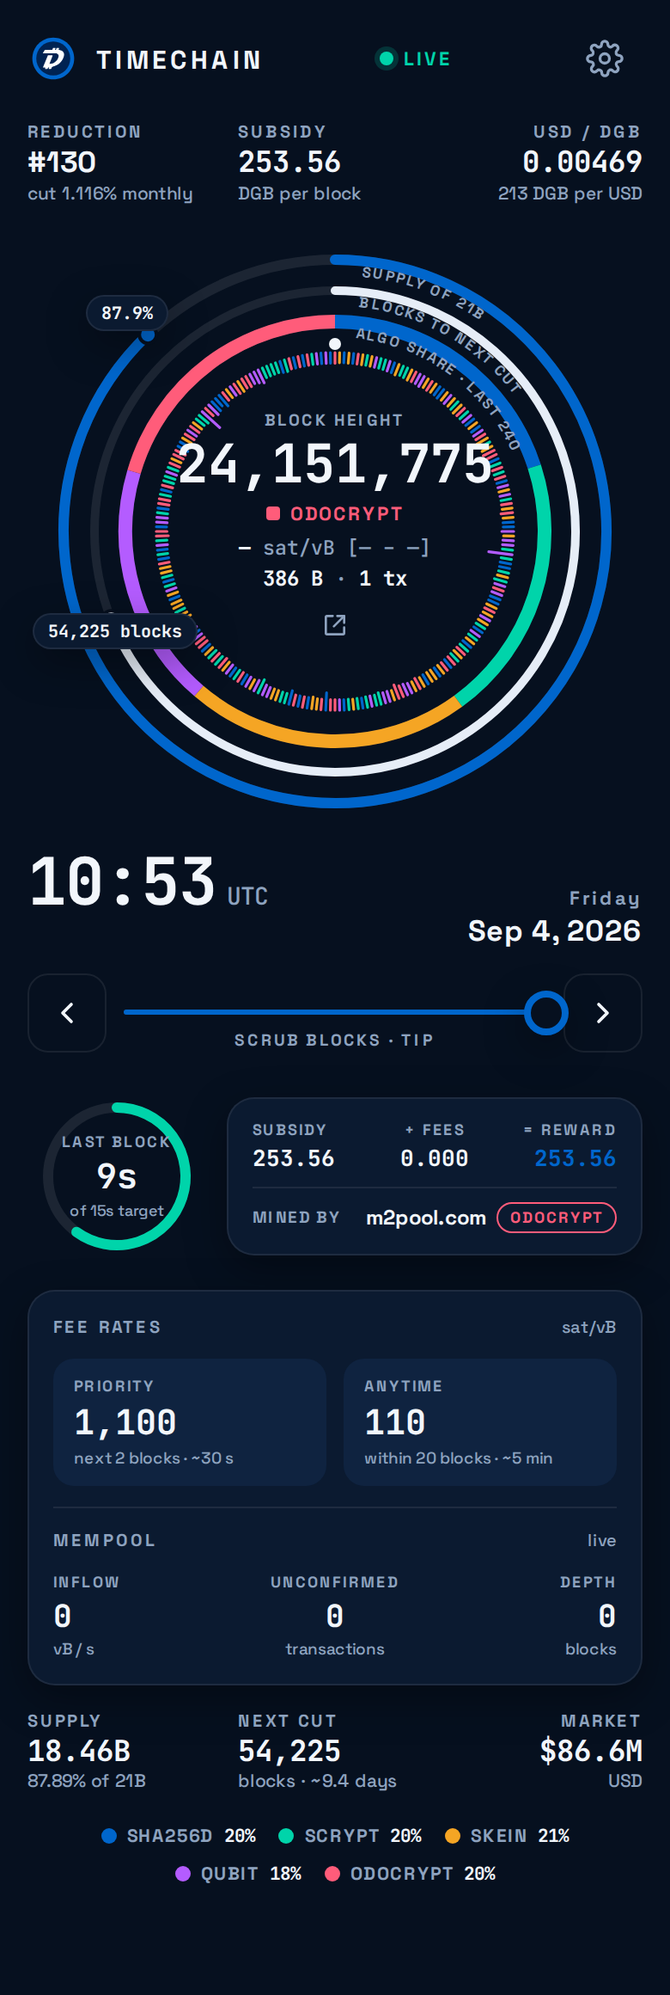
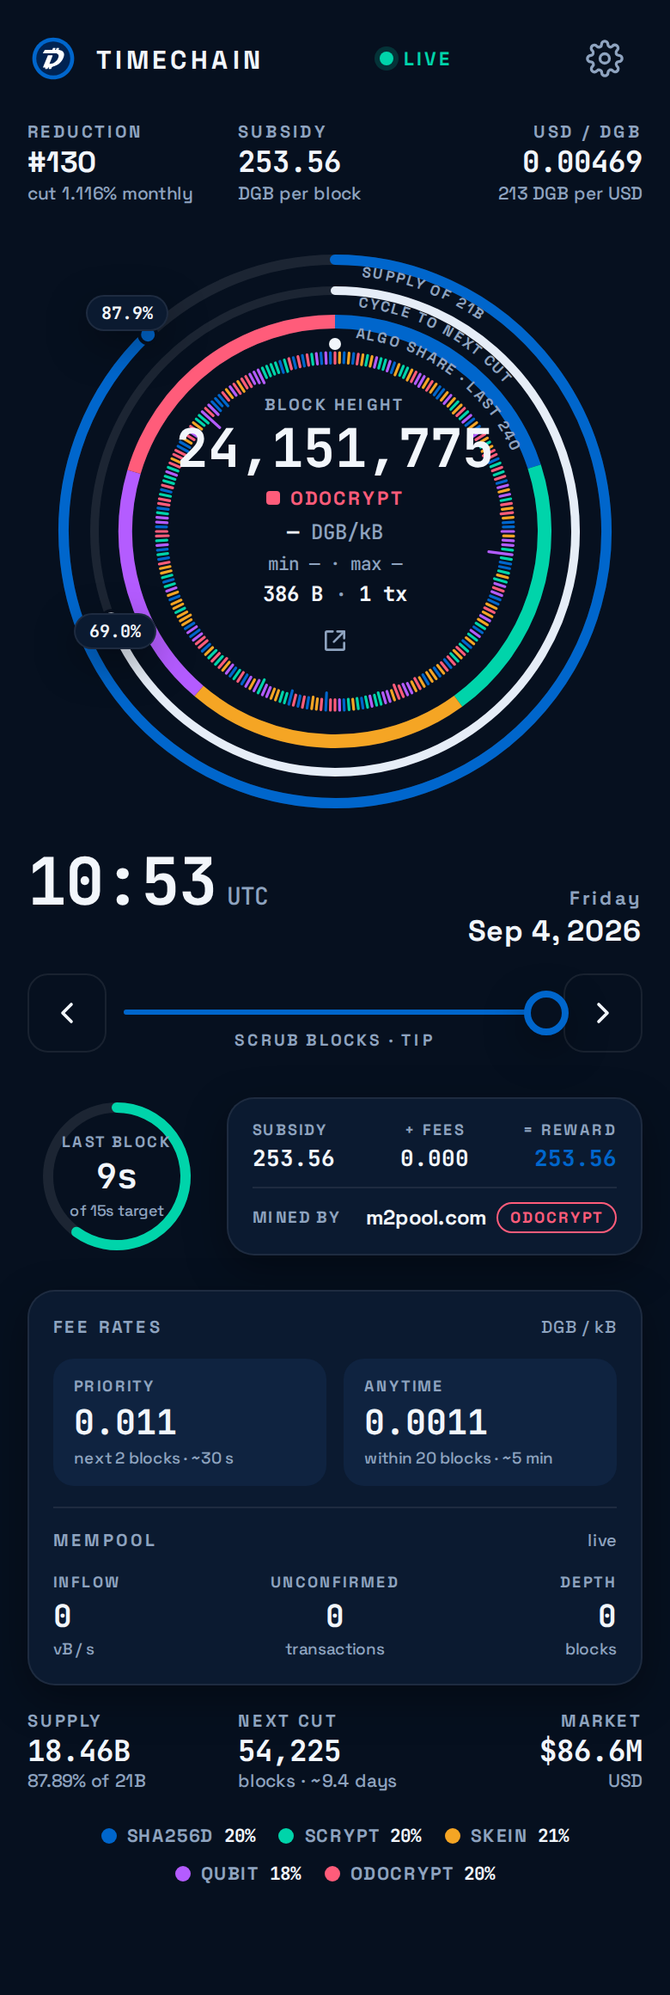
docs(mockups): percent-of-cycle ring label, fees in DGB/kB
Claude-Session: https://claude.ai/code/session_01DvwwRyeQu4RNXHNFvKQ6JK

diff --git a/docs/mockups/2026-09-04-dial/Scrubbed.dc.html b/docs/mockups/2026-09-04-dial/Scrubbed.dc.html
@@ -60,7 +60,7 @@
 <path d="M90.77,262.77 A122,122 0 0 1 53.02,135.35" fill="none" stroke="#b45cff" stroke-width="8"></path>
 <path d="M53.02,135.35 A122,122 0 0 1 170.00,48.00" fill="none" stroke="#ff5c7a" stroke-width="8"></path>
 <text font-family="Space Grotesk, system-ui, sans-serif" font-size="8.5" font-weight="700" letter-spacing="1.2" fill="#8ea3bf"><textPath href="#cap1">SUPPLY OF 21B</textPath></text>
-<text font-family="Space Grotesk, system-ui, sans-serif" font-size="8.5" font-weight="700" letter-spacing="1.2" fill="#8ea3bf"><textPath href="#cap2">BLOCKS TO NEXT CUT</textPath></text>
+<text font-family="Space Grotesk, system-ui, sans-serif" font-size="8.5" font-weight="700" letter-spacing="1.2" fill="#8ea3bf"><textPath href="#cap2">CYCLE TO NEXT CUT</textPath></text>
 <text font-family="Space Grotesk, system-ui, sans-serif" font-size="8.5" font-weight="700" letter-spacing="1.2" fill="#8ea3bf"><textPath href="#cap3">ALGO SHARE · LAST 240</textPath></text>
 <line x1="170.0" y1="66.0" x2="170.0" y2="72.2" stroke="#ff5c7a" stroke-width="1.6" stroke-linecap="round" opacity="1"></line>
 <line x1="172.7" y1="66.0" x2="172.6" y2="71.9" stroke="#f5a524" stroke-width="1.6" stroke-linecap="round" opacity="1"></line>
@@ -313,12 +313,13 @@
         <span style="width:8px;height:8px;border-radius:2px;background:#b45cff;display:inline-block"></span>
         <span style="font-size:11px;font-weight:700;letter-spacing:1.4px;color:#b45cff">QUBIT</span>
       </div>
-      <div style="font-family:JetBrains Mono, monospace;font-size:11.5px;font-weight:600;color:#f2f6fb;margin-top:2px;white-space:nowrap">10,003 <span style="color:#8ea3bf;font-weight:500">sat/vB</span> <span style="color:#8ea3bf;font-weight:500">[110 – 11,020]</span></div>
+      <div style="font-family:JetBrains Mono, monospace;font-size:12px;font-weight:600;color:#f2f6fb;margin-top:2px;white-space:nowrap">0.1000 <span style="color:#8ea3bf;font-weight:500">DGB/kB</span></div>
+      <div style="font-family:JetBrains Mono, monospace;font-size:10.5px;font-weight:500;color:#8ea3bf;white-space:nowrap">min 0.0011 · max 0.1102</div>
       <div style="font-family:JetBrains Mono, monospace;font-size:12px;font-weight:600;color:#f2f6fb">7,579 B <span style="color:#8ea3bf;font-weight:500">·</span> 4 tx</div>
       <a href="#" style="display:flex;align-items:center;justify-content:center;width:44px;height:32px;color:#8ea3bf"><svg width="16" height="16" viewBox="0 0 24 24" fill="none" stroke="currentColor" stroke-width="2" stroke-linecap="round" stroke-linejoin="round"><path d="M14 4h6v6"></path><path d="M20 4l-9 9"></path><path d="M20 14v5a1 1 0 0 1-1 1H5a1 1 0 0 1-1-1V5a1 1 0 0 1 1-1h5"></path></svg></a>
     </div>
     <div style="position:absolute;left:49px;top:43px;transform:translate(-50%,-50%);background:#0b1a30;color:#f2f6fb;border:1px solid rgba(255,255,255,0.08);border-radius:999px;padding:3px 8px;font-family:JetBrains Mono, monospace;font-size:10px;font-weight:600;white-space:nowrap;box-shadow:0 8px 24px rgba(0,0,0,0.35)">87.9%</div>
-<div style="position:absolute;left:42px;top:228px;transform:translate(-50%,-50%);background:#0b1a30;color:#f2f6fb;border:1px solid rgba(255,255,255,0.08);border-radius:999px;padding:3px 8px;font-family:JetBrains Mono, monospace;font-size:10px;font-weight:600;white-space:nowrap;box-shadow:0 8px 24px rgba(0,0,0,0.35)">54,290 blocks</div>
+<div style="position:absolute;left:42px;top:228px;transform:translate(-50%,-50%);background:#0b1a30;color:#f2f6fb;border:1px solid rgba(255,255,255,0.08);border-radius:999px;padding:3px 8px;font-family:JetBrains Mono, monospace;font-size:10px;font-weight:600;white-space:nowrap;box-shadow:0 8px 24px rgba(0,0,0,0.35)">69.0%</div>
   </div>
 
   <div style="display:flex;align-items:baseline;justify-content:space-between">
@@ -366,11 +367,11 @@
   <div style="background:#0b1a30;border:1px solid rgba(255,255,255,0.08);border-radius:16px;padding:14px;display:flex;flex-direction:column;gap:12px;box-shadow:0 8px 24px rgba(0,0,0,0.35)">
     <div style="display:flex;align-items:center;justify-content:space-between">
       <div style="font-size:10px;font-weight:700;letter-spacing:1.6px;color:#8ea3bf">FEE RATES</div>
-      <div style="font-size:10px;font-weight:500;color:#8ea3bf">sat/vB</div>
+      <div style="font-size:10px;font-weight:500;color:#8ea3bf">DGB / kB</div>
     </div>
     <div style="display:grid;grid-template-columns:repeat(2, minmax(0, 1fr));gap:10px">
-      <div style="background:#0f2340;border-radius:12px;padding:10px 12px;display:flex;flex-direction:column;gap:2px"><div style="font-size:9px;font-weight:700;letter-spacing:1.2px;color:#8ea3bf">PRIORITY</div><div style="font-family:JetBrains Mono, monospace;font-size:20px;font-weight:700">1,100</div><div style="font-size:9.5px;color:#8ea3bf">next 2 blocks · ~30 s</div></div>
-      <div style="background:#0f2340;border-radius:12px;padding:10px 12px;display:flex;flex-direction:column;gap:2px"><div style="font-size:9px;font-weight:700;letter-spacing:1.2px;color:#8ea3bf">ANYTIME</div><div style="font-family:JetBrains Mono, monospace;font-size:20px;font-weight:700">110</div><div style="font-size:9.5px;color:#8ea3bf">within 20 blocks · ~5 min</div></div>
+      <div style="background:#0f2340;border-radius:12px;padding:10px 12px;display:flex;flex-direction:column;gap:2px"><div style="font-size:9px;font-weight:700;letter-spacing:1.2px;color:#8ea3bf">PRIORITY</div><div style="font-family:JetBrains Mono, monospace;font-size:20px;font-weight:700">0.011</div><div style="font-size:9.5px;color:#8ea3bf">next 2 blocks · ~30 s</div></div>
+      <div style="background:#0f2340;border-radius:12px;padding:10px 12px;display:flex;flex-direction:column;gap:2px"><div style="font-size:9px;font-weight:700;letter-spacing:1.2px;color:#8ea3bf">ANYTIME</div><div style="font-family:JetBrains Mono, monospace;font-size:20px;font-weight:700">0.0011</div><div style="font-size:9.5px;color:#8ea3bf">within 20 blocks · ~5 min</div></div>
     </div>
     <div style="height:1px;background:rgba(255,255,255,0.08)"></div>
     <div style="display:flex;align-items:center;justify-content:space-between">

diff --git a/docs/mockups/2026-09-04-dial/Main.dc.html b/docs/mockups/2026-09-04-dial/Main.dc.html
@@ -60,7 +60,7 @@
 <path d="M90.77,262.77 A122,122 0 0 1 53.02,135.35" fill="none" stroke="#b45cff" stroke-width="8"></path>
 <path d="M53.02,135.35 A122,122 0 0 1 170.00,48.00" fill="none" stroke="#ff5c7a" stroke-width="8"></path>
 <text font-family="Space Grotesk, system-ui, sans-serif" font-size="8.5" font-weight="700" letter-spacing="1.2" fill="#8ea3bf"><textPath href="#cap1">SUPPLY OF 21B</textPath></text>
-<text font-family="Space Grotesk, system-ui, sans-serif" font-size="8.5" font-weight="700" letter-spacing="1.2" fill="#8ea3bf"><textPath href="#cap2">BLOCKS TO NEXT CUT</textPath></text>
+<text font-family="Space Grotesk, system-ui, sans-serif" font-size="8.5" font-weight="700" letter-spacing="1.2" fill="#8ea3bf"><textPath href="#cap2">CYCLE TO NEXT CUT</textPath></text>
 <text font-family="Space Grotesk, system-ui, sans-serif" font-size="8.5" font-weight="700" letter-spacing="1.2" fill="#8ea3bf"><textPath href="#cap3">ALGO SHARE · LAST 240</textPath></text>
 <line x1="170.0" y1="66.0" x2="170.0" y2="72.2" stroke="#ff5c7a" stroke-width="1.6" stroke-linecap="round" opacity="1"></line>
 <line x1="172.7" y1="66.0" x2="172.6" y2="71.9" stroke="#f5a524" stroke-width="1.6" stroke-linecap="round" opacity="1"></line>
@@ -313,12 +313,13 @@
         <span style="width:8px;height:8px;border-radius:2px;background:#ff5c7a;display:inline-block"></span>
         <span style="font-size:11px;font-weight:700;letter-spacing:1.4px;color:#ff5c7a">ODOCRYPT</span>
       </div>
-      <div style="font-family:JetBrains Mono, monospace;font-size:11.5px;font-weight:600;color:#f2f6fb;margin-top:2px;white-space:nowrap">— <span style="color:#8ea3bf;font-weight:500">sat/vB</span> <span style="color:#8ea3bf;font-weight:500">[— – —]</span></div>
+      <div style="font-family:JetBrains Mono, monospace;font-size:12px;font-weight:600;color:#f2f6fb;margin-top:2px;white-space:nowrap">— <span style="color:#8ea3bf;font-weight:500">DGB/kB</span></div>
+      <div style="font-family:JetBrains Mono, monospace;font-size:10.5px;font-weight:500;color:#8ea3bf;white-space:nowrap">min — · max —</div>
       <div style="font-family:JetBrains Mono, monospace;font-size:12px;font-weight:600;color:#f2f6fb">386 B <span style="color:#8ea3bf;font-weight:500">·</span> 1 tx</div>
       <a href="#" style="display:flex;align-items:center;justify-content:center;width:44px;height:32px;color:#8ea3bf"><svg width="16" height="16" viewBox="0 0 24 24" fill="none" stroke="currentColor" stroke-width="2" stroke-linecap="round" stroke-linejoin="round"><path d="M14 4h6v6"></path><path d="M20 4l-9 9"></path><path d="M20 14v5a1 1 0 0 1-1 1H5a1 1 0 0 1-1-1V5a1 1 0 0 1 1-1h5"></path></svg></a>
     </div>
     <div style="position:absolute;left:49px;top:43px;transform:translate(-50%,-50%);background:#0b1a30;color:#f2f6fb;border:1px solid rgba(255,255,255,0.08);border-radius:999px;padding:3px 8px;font-family:JetBrains Mono, monospace;font-size:10px;font-weight:600;white-space:nowrap;box-shadow:0 8px 24px rgba(0,0,0,0.35)">87.9%</div>
-<div style="position:absolute;left:42px;top:228px;transform:translate(-50%,-50%);background:#0b1a30;color:#f2f6fb;border:1px solid rgba(255,255,255,0.08);border-radius:999px;padding:3px 8px;font-family:JetBrains Mono, monospace;font-size:10px;font-weight:600;white-space:nowrap;box-shadow:0 8px 24px rgba(0,0,0,0.35)">54,225 blocks</div>
+<div style="position:absolute;left:42px;top:228px;transform:translate(-50%,-50%);background:#0b1a30;color:#f2f6fb;border:1px solid rgba(255,255,255,0.08);border-radius:999px;padding:3px 8px;font-family:JetBrains Mono, monospace;font-size:10px;font-weight:600;white-space:nowrap;box-shadow:0 8px 24px rgba(0,0,0,0.35)">69.0%</div>
   </div>
 
   <div style="display:flex;align-items:baseline;justify-content:space-between">
@@ -366,11 +367,11 @@
   <div style="background:#0b1a30;border:1px solid rgba(255,255,255,0.08);border-radius:16px;padding:14px;display:flex;flex-direction:column;gap:12px;box-shadow:0 8px 24px rgba(0,0,0,0.35)">
     <div style="display:flex;align-items:center;justify-content:space-between">
       <div style="font-size:10px;font-weight:700;letter-spacing:1.6px;color:#8ea3bf">FEE RATES</div>
-      <div style="font-size:10px;font-weight:500;color:#8ea3bf">sat/vB</div>
+      <div style="font-size:10px;font-weight:500;color:#8ea3bf">DGB / kB</div>
     </div>
     <div style="display:grid;grid-template-columns:repeat(2, minmax(0, 1fr));gap:10px">
-      <div style="background:#0f2340;border-radius:12px;padding:10px 12px;display:flex;flex-direction:column;gap:2px"><div style="font-size:9px;font-weight:700;letter-spacing:1.2px;color:#8ea3bf">PRIORITY</div><div style="font-family:JetBrains Mono, monospace;font-size:20px;font-weight:700">1,100</div><div style="font-size:9.5px;color:#8ea3bf">next 2 blocks · ~30 s</div></div>
-      <div style="background:#0f2340;border-radius:12px;padding:10px 12px;display:flex;flex-direction:column;gap:2px"><div style="font-size:9px;font-weight:700;letter-spacing:1.2px;color:#8ea3bf">ANYTIME</div><div style="font-family:JetBrains Mono, monospace;font-size:20px;font-weight:700">110</div><div style="font-size:9.5px;color:#8ea3bf">within 20 blocks · ~5 min</div></div>
+      <div style="background:#0f2340;border-radius:12px;padding:10px 12px;display:flex;flex-direction:column;gap:2px"><div style="font-size:9px;font-weight:700;letter-spacing:1.2px;color:#8ea3bf">PRIORITY</div><div style="font-family:JetBrains Mono, monospace;font-size:20px;font-weight:700">0.011</div><div style="font-size:9.5px;color:#8ea3bf">next 2 blocks · ~30 s</div></div>
+      <div style="background:#0f2340;border-radius:12px;padding:10px 12px;display:flex;flex-direction:column;gap:2px"><div style="font-size:9px;font-weight:700;letter-spacing:1.2px;color:#8ea3bf">ANYTIME</div><div style="font-family:JetBrains Mono, monospace;font-size:20px;font-weight:700">0.0011</div><div style="font-size:9.5px;color:#8ea3bf">within 20 blocks · ~5 min</div></div>
     </div>
     <div style="height:1px;background:rgba(255,255,255,0.08)"></div>
     <div style="display:flex;align-items:center;justify-content:space-between">

diff --git a/docs/mockups/2026-09-04-dial/Light.dc.html b/docs/mockups/2026-09-04-dial/Light.dc.html
@@ -60,7 +60,7 @@
 <path d="M90.77,262.77 A122,122 0 0 1 53.02,135.35" fill="none" stroke="#b45cff" stroke-width="8"></path>
 <path d="M53.02,135.35 A122,122 0 0 1 170.00,48.00" fill="none" stroke="#ff5c7a" stroke-width="8"></path>
 <text font-family="Space Grotesk, system-ui, sans-serif" font-size="8.5" font-weight="700" letter-spacing="1.2" fill="#5a6f8c"><textPath href="#cap1">SUPPLY OF 21B</textPath></text>
-<text font-family="Space Grotesk, system-ui, sans-serif" font-size="8.5" font-weight="700" letter-spacing="1.2" fill="#5a6f8c"><textPath href="#cap2">BLOCKS TO NEXT CUT</textPath></text>
+<text font-family="Space Grotesk, system-ui, sans-serif" font-size="8.5" font-weight="700" letter-spacing="1.2" fill="#5a6f8c"><textPath href="#cap2">CYCLE TO NEXT CUT</textPath></text>
 <text font-family="Space Grotesk, system-ui, sans-serif" font-size="8.5" font-weight="700" letter-spacing="1.2" fill="#5a6f8c"><textPath href="#cap3">ALGO SHARE · LAST 240</textPath></text>
 <line x1="170.0" y1="66.0" x2="170.0" y2="72.2" stroke="#ff5c7a" stroke-width="1.6" stroke-linecap="round" opacity="1"></line>
 <line x1="172.7" y1="66.0" x2="172.6" y2="71.9" stroke="#f5a524" stroke-width="1.6" stroke-linecap="round" opacity="1"></line>
@@ -313,12 +313,13 @@
         <span style="width:8px;height:8px;border-radius:2px;background:#ff5c7a;display:inline-block"></span>
         <span style="font-size:11px;font-weight:700;letter-spacing:1.4px;color:#ff5c7a">ODOCRYPT</span>
       </div>
-      <div style="font-family:JetBrains Mono, monospace;font-size:11.5px;font-weight:600;color:#002352;margin-top:2px;white-space:nowrap">— <span style="color:#5a6f8c;font-weight:500">sat/vB</span> <span style="color:#5a6f8c;font-weight:500">[— – —]</span></div>
+      <div style="font-family:JetBrains Mono, monospace;font-size:12px;font-weight:600;color:#002352;margin-top:2px;white-space:nowrap">— <span style="color:#5a6f8c;font-weight:500">DGB/kB</span></div>
+      <div style="font-family:JetBrains Mono, monospace;font-size:10.5px;font-weight:500;color:#5a6f8c;white-space:nowrap">min — · max —</div>
       <div style="font-family:JetBrains Mono, monospace;font-size:12px;font-weight:600;color:#002352">386 B <span style="color:#5a6f8c;font-weight:500">·</span> 1 tx</div>
       <a href="#" style="display:flex;align-items:center;justify-content:center;width:44px;height:32px;color:#5a6f8c"><svg width="16" height="16" viewBox="0 0 24 24" fill="none" stroke="currentColor" stroke-width="2" stroke-linecap="round" stroke-linejoin="round"><path d="M14 4h6v6"></path><path d="M20 4l-9 9"></path><path d="M20 14v5a1 1 0 0 1-1 1H5a1 1 0 0 1-1-1V5a1 1 0 0 1 1-1h5"></path></svg></a>
     </div>
     <div style="position:absolute;left:49px;top:43px;transform:translate(-50%,-50%);background:#ffffff;color:#002352;border:1px solid rgba(0,35,82,0.10);border-radius:999px;padding:3px 8px;font-family:JetBrains Mono, monospace;font-size:10px;font-weight:600;white-space:nowrap;box-shadow:0 8px 24px rgba(0,35,82,0.10)">87.9%</div>
-<div style="position:absolute;left:42px;top:228px;transform:translate(-50%,-50%);background:#ffffff;color:#002352;border:1px solid rgba(0,35,82,0.10);border-radius:999px;padding:3px 8px;font-family:JetBrains Mono, monospace;font-size:10px;font-weight:600;white-space:nowrap;box-shadow:0 8px 24px rgba(0,35,82,0.10)">54,225 blocks</div>
+<div style="position:absolute;left:42px;top:228px;transform:translate(-50%,-50%);background:#ffffff;color:#002352;border:1px solid rgba(0,35,82,0.10);border-radius:999px;padding:3px 8px;font-family:JetBrains Mono, monospace;font-size:10px;font-weight:600;white-space:nowrap;box-shadow:0 8px 24px rgba(0,35,82,0.10)">69.0%</div>
   </div>
 
   <div style="display:flex;align-items:baseline;justify-content:space-between">
@@ -366,11 +367,11 @@
   <div style="background:#ffffff;border:1px solid rgba(0,35,82,0.10);border-radius:16px;padding:14px;display:flex;flex-direction:column;gap:12px;box-shadow:0 8px 24px rgba(0,35,82,0.10)">
     <div style="display:flex;align-items:center;justify-content:space-between">
       <div style="font-size:10px;font-weight:700;letter-spacing:1.6px;color:#5a6f8c">FEE RATES</div>
-      <div style="font-size:10px;font-weight:500;color:#5a6f8c">sat/vB</div>
+      <div style="font-size:10px;font-weight:500;color:#5a6f8c">DGB / kB</div>
     </div>
     <div style="display:grid;grid-template-columns:repeat(2, minmax(0, 1fr));gap:10px">
-      <div style="background:#eaf0f8;border-radius:12px;padding:10px 12px;display:flex;flex-direction:column;gap:2px"><div style="font-size:9px;font-weight:700;letter-spacing:1.2px;color:#5a6f8c">PRIORITY</div><div style="font-family:JetBrains Mono, monospace;font-size:20px;font-weight:700">1,100</div><div style="font-size:9.5px;color:#5a6f8c">next 2 blocks · ~30 s</div></div>
-      <div style="background:#eaf0f8;border-radius:12px;padding:10px 12px;display:flex;flex-direction:column;gap:2px"><div style="font-size:9px;font-weight:700;letter-spacing:1.2px;color:#5a6f8c">ANYTIME</div><div style="font-family:JetBrains Mono, monospace;font-size:20px;font-weight:700">110</div><div style="font-size:9.5px;color:#5a6f8c">within 20 blocks · ~5 min</div></div>
+      <div style="background:#eaf0f8;border-radius:12px;padding:10px 12px;display:flex;flex-direction:column;gap:2px"><div style="font-size:9px;font-weight:700;letter-spacing:1.2px;color:#5a6f8c">PRIORITY</div><div style="font-family:JetBrains Mono, monospace;font-size:20px;font-weight:700">0.011</div><div style="font-size:9.5px;color:#5a6f8c">next 2 blocks · ~30 s</div></div>
+      <div style="background:#eaf0f8;border-radius:12px;padding:10px 12px;display:flex;flex-direction:column;gap:2px"><div style="font-size:9px;font-weight:700;letter-spacing:1.2px;color:#5a6f8c">ANYTIME</div><div style="font-family:JetBrains Mono, monospace;font-size:20px;font-weight:700">0.0011</div><div style="font-size:9.5px;color:#5a6f8c">within 20 blocks · ~5 min</div></div>
     </div>
     <div style="height:1px;background:rgba(0,35,82,0.10)"></div>
     <div style="display:flex;align-items:center;justify-content:space-between">

diff --git a/docs/mockups/2026-09-04-dial/gen.py b/docs/mockups/2026-09-04-dial/gen.py
@@ -98,7 +98,7 @@ def dial_svg(t, sel_height, sel_index):
         a = e
     # captions
     cap_fill = t["muted"]
-    for pid, txt in (("cap1", "SUPPLY OF 21B"), ("cap2", "BLOCKS TO NEXT CUT"), ("cap3", "ALGO SHARE · LAST 240")):
+    for pid, txt in (("cap1", "SUPPLY OF 21B"), ("cap2", "CYCLE TO NEXT CUT"), ("cap3", "ALGO SHARE · LAST 240")):
         out.append(f'<text font-family="Space Grotesk, system-ui, sans-serif" font-size="8.5" font-weight="700" letter-spacing="1.2" fill="{cap_fill}"><textPath href="#{pid}">{txt}</textPath></text>')
     # ring 4 ticks: newest at 12 o'clock, clockwise = older
     for i, (h, algo, size, ntx, tm) in enumerate(blocks):
@@ -119,7 +119,7 @@ def dial_svg(t, sel_height, sel_index):
     out.append('</svg>')
     # pills (HTML, positioned)
     pills = []
-    for r, e, txt in ((158, end1, f"{supply_frac*100:.1f}%"), (140, end2, f"{fmt(to_go)} blocks")):
+    for r, e, txt in ((158, end1, f"{supply_frac*100:.1f}%"), (140, end2, f"{frac*100:.1f}%")):
         x, y = pt(r, e)
         # push the pill outward from the ring so it does not cover the dot
         ox, oy = pt(r + 18, e)
@@ -144,9 +144,9 @@ def page(theme, live, sel_index):
     dt = datetime.datetime.fromtimestamp(tm, datetime.UTC)
     # block-specific figures (verified from getblockstats)
     if h == 24151775:
-        fees, fee_med, fee_min, fee_max = 0.0, "—", "—", "—"
+        fees, fee_med, fee_min, fee_max = 0.0, "—", "—", "—"  # empty block: no fee-paying tx
     elif h == 24151710:
-        fees, fee_med, fee_min, fee_max = 0.64499045, "10,003", "110", "11,020"
+        fees, fee_med, fee_min, fee_max = 0.64499045, "0.1000", "0.0011", "0.1102"  # sat/vB ÷ 1e5
     else:
         raise SystemExit("no stats for that block")
     reward = SUBSIDY + fees
@@ -218,7 +218,8 @@ def page(theme, live, sel_index):
         <span style="width:8px;height:8px;border-radius:2px;background:{acol};display:inline-block"></span>
         <span style="font-size:11px;font-weight:700;letter-spacing:1.4px;color:{acol}">{alabel.upper()}</span>
       </div>
-      <div style="font-family:JetBrains Mono, monospace;font-size:11.5px;font-weight:600;color:{t['text']};margin-top:2px;white-space:nowrap">{fee_med} <span style="color:{t['muted']};font-weight:500">sat/vB</span> <span style="color:{t['muted']};font-weight:500">[{fee_min} – {fee_max}]</span></div>
+      <div style="font-family:JetBrains Mono, monospace;font-size:12px;font-weight:600;color:{t['text']};margin-top:2px;white-space:nowrap">{fee_med} <span style="color:{t['muted']};font-weight:500">DGB/kB</span></div>
+      <div style="font-family:JetBrains Mono, monospace;font-size:10.5px;font-weight:500;color:{t['muted']};white-space:nowrap">min {fee_min} · max {fee_max}</div>
       <div style="font-family:JetBrains Mono, monospace;font-size:12px;font-weight:600;color:{t['text']}">{size:,} B <span style="color:{t['muted']};font-weight:500">·</span> {ntx} tx</div>
       <a href="#" style="display:flex;align-items:center;justify-content:center;width:44px;height:32px;color:{t['muted']}">{EXT}</a>
     </div>
@@ -263,11 +264,11 @@ def page(theme, live, sel_index):
   <div style="background:{t['card']};border:1px solid {t['line']};border-radius:16px;padding:14px;display:flex;flex-direction:column;gap:12px;box-shadow:{t['shadow']}">
     <div style="display:flex;align-items:center;justify-content:space-between">
       <div style="font-size:10px;font-weight:700;letter-spacing:1.6px;color:{t['muted']}">FEE RATES</div>
-      <div style="font-size:10px;font-weight:500;color:{t['muted']}">sat/vB</div>
+      <div style="font-size:10px;font-weight:500;color:{t['muted']}">DGB / kB</div>
     </div>
     <div style="display:grid;grid-template-columns:repeat(2, minmax(0, 1fr));gap:10px">
-      <div style="background:{t['card2']};border-radius:12px;padding:10px 12px;display:flex;flex-direction:column;gap:2px"><div style="font-size:9px;font-weight:700;letter-spacing:1.2px;color:{t['muted']}">PRIORITY</div><div style="font-family:JetBrains Mono, monospace;font-size:20px;font-weight:700">1,100</div><div style="font-size:9.5px;color:{t['muted']}">next 2 blocks · ~30 s</div></div>
-      <div style="background:{t['card2']};border-radius:12px;padding:10px 12px;display:flex;flex-direction:column;gap:2px"><div style="font-size:9px;font-weight:700;letter-spacing:1.2px;color:{t['muted']}">ANYTIME</div><div style="font-family:JetBrains Mono, monospace;font-size:20px;font-weight:700">110</div><div style="font-size:9.5px;color:{t['muted']}">within 20 blocks · ~5 min</div></div>
+      <div style="background:{t['card2']};border-radius:12px;padding:10px 12px;display:flex;flex-direction:column;gap:2px"><div style="font-size:9px;font-weight:700;letter-spacing:1.2px;color:{t['muted']}">PRIORITY</div><div style="font-family:JetBrains Mono, monospace;font-size:20px;font-weight:700">0.011</div><div style="font-size:9.5px;color:{t['muted']}">next 2 blocks · ~30 s</div></div>
+      <div style="background:{t['card2']};border-radius:12px;padding:10px 12px;display:flex;flex-direction:column;gap:2px"><div style="font-size:9px;font-weight:700;letter-spacing:1.2px;color:{t['muted']}">ANYTIME</div><div style="font-family:JetBrains Mono, monospace;font-size:20px;font-weight:700">0.0011</div><div style="font-size:9.5px;color:{t['muted']}">within 20 blocks · ~5 min</div></div>
     </div>
     <div style="height:1px;background:{t['line']}"></div>
     <div style="display:flex;align-items:center;justify-content:space-between">
@@ -313,9 +314,9 @@ canvas = {
     ],
     "annotations": [
         {"id": "data-note", "x": 0, "y": -150, "w": 460,
-         "text": "All figures are real DigiByte mainnet data captured 2026-09-04 from our node: height 24,151,775, subsidy 253.56 DGB, supply 18.46B (87.9% of 21B), reduction step #130, last 240 blocks by algorithm. Sample values: fee-rate estimates (Priority/Anytime) and the 9 s timer."},
+         "text": "All figures are real DigiByte mainnet data captured 2026-09-04 from our node: height 24,151,775, subsidy 253.56 DGB, supply 18.46B (87.9% of 21B), reduction step #130, last 240 blocks by algorithm. Sample values: fee-rate estimates (Priority/Anytime) and the 9 s timer. Fees are shown in DGB per kB, Core's native unit."},
         {"id": "rings-note", "x": 960, "y": -150, "w": 400,
-         "text": "Rings, outer to inner: supply of 21B cap; blocks to next 1.116% subsidy cut (175,200-block cycle); algorithm share of the last 240 blocks; one tick per block for the last hour, length = block size. DigiShield retargets every block, so there is no difficulty ring."},
+         "text": "Rings, outer to inner: supply of 21B cap; percent of the 175,200-block cycle to the next 1.116% subsidy cut; algorithm share of the last 240 blocks; one tick per block for the last hour, length = block size. DigiShield retargets every block, so there is no difficulty ring."},
     ],
     "launch": {"view": "canvas"},
 }
